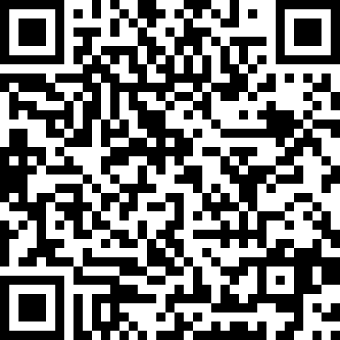
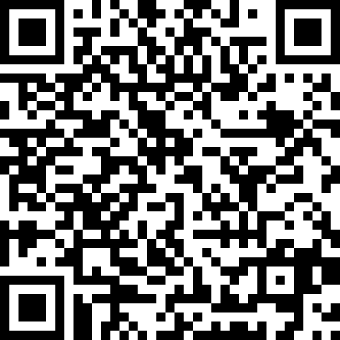
Update sol path and qr code in hardware call

Changed region(s): [[0.0, 0.2353, 0.4118, 0.8235], [0.2353, 0.8824, 0.2941, 0.9706]]

diff --git a/docs/integration/hardware-call.md b/docs/integration/hardware-call.md
@@ -45,7 +45,7 @@ After generating the Key Derivation Call QR code with `KeystoneSDK`, scans the Q
 ### Example
 
 An example of trying to get the Bitcoin BIP 44 standard extended public key `m/44'/0'/0'` with curve `secp256k1`
-and one of the Solana public key `m/44'/501'/0'/0'/0` with curve `ed25519`.
+and one of the Solana public key `m/44'/501'/0'/0'/0'` with curve `ed25519`.
 
 
 <!-- tabs:start -->
@@ -59,7 +59,7 @@ import {AnimatedQRCode} from "@keystonehq/animated-qr";
 export const KeyDerivationCall = () => {
     const schemas = [
         { path: "m/44'/0'/0'"},
-        { path: "m/44'/501'/0'/0'/0", curve: Curve.ed25519 }
+        { path: "m/44'/501'/0'/0'/0'", curve: Curve.ed25519 }
     ]
     const ur = KeystoneSDK.generateKeyDerivationCall({ schemas });
     return <AnimatedQRCode type={ur.type} cbor={ur.cbor.toString("hex")}/>
@@ -68,6 +68,6 @@ export const KeyDerivationCall = () => {
 
 <!-- tabs:end -->
 
-The QR code generated for the Key Derivation Call with path `m/44'/0'/0'` with curve `secp256k1` and path `m/44'/501'/0'/0'/0` with curve `ed25519` above.
+The QR code generated for the Key Derivation Call with path `m/44'/0'/0'` with curve `secp256k1` and path `m/44'/501'/0'/0'/0'` with curve `ed25519` above.
 
 ![](/_media/key-derivation-call.png ':size=200')
